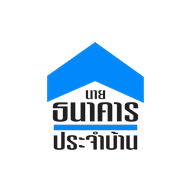
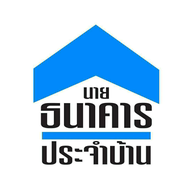
เปลี่ยนโลโก้เว็บเป็น "นายธนาคารประจำบ้าน" ตัวใหม่ (คำสั่ง BIZ04 17 ต.ค. 69)
- logo1.png (header/footer/favicon/schema ทุกหน้า) ย่อจาก master JPG 1280 → 192 px พื้นขาว
- og-image.png ใหม่ 1200×630 ตรง meta og:image:width/height
- icons/ ครบ 5 ไฟล์ (apple-touch-icon-180, icon-192/512, maskable-192/512)
- .header-logo (condo/home/rent-to-own) สูง 40 px + มุมมน 8 px + พื้นขาว
- ไม่แตะไฟล์ HTML / snippet tracking ของ WEB01

Changed region(s): [[0.1562, 0.125, 0.8438, 0.875]]

diff --git a/condo/assets/style.css b/condo/assets/style.css
@@ -155,9 +155,11 @@ p:last-child { margin-bottom: 0; }
 }
 
 .header-logo {
-  height: 36px;
+  height: 40px;
   width: auto;
   flex-shrink: 0;
+  border-radius: 8px;
+  background: #fff;
 }
 
 .header-brand {

diff --git a/home/assets/style.css b/home/assets/style.css
@@ -153,9 +153,11 @@ p:last-child { margin-bottom: 0; }
 }
 
 .header-logo {
-  height: 36px;
+  height: 40px;
   width: auto;
   flex-shrink: 0;
+  border-radius: 8px;
+  background: #fff;
 }
 
 .header-brand {

diff --git a/rent-to-own/assets/style.css b/rent-to-own/assets/style.css
@@ -153,9 +153,11 @@ p:last-child { margin-bottom: 0; }
 }
 
 .header-logo {
-  height: 36px;
+  height: 40px;
   width: auto;
   flex-shrink: 0;
+  border-radius: 8px;
+  background: #fff;
 }
 
 .header-brand {
